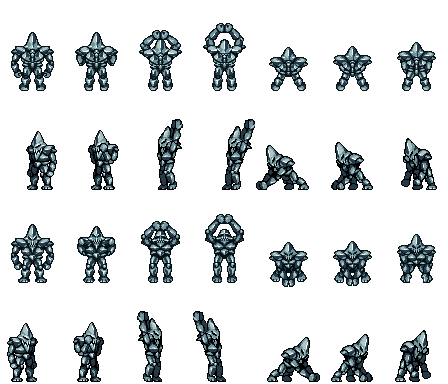
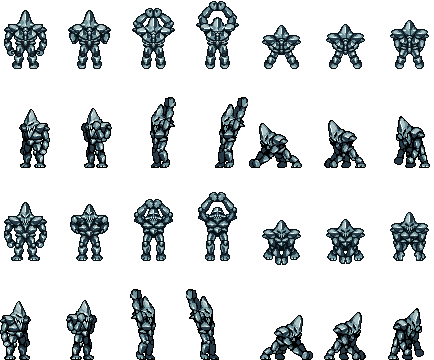
fixed boss animation

diff --git a/src/core/Texture.java b/src/core/Texture.java
@@ -36,7 +36,7 @@ public class Texture {
     public BufferedImage[] NPC = new BufferedImage[12];
     public BufferedImage[] house = new BufferedImage[3];
     public BufferedImage[] misc = new BufferedImage[6];
-    public BufferedImage[] boss = new BufferedImage[13];
+    public BufferedImage[] boss = new BufferedImage[15];
     public BufferedImage[] attack = new BufferedImage[20];
     public BufferedImage fountain = null;
     public BufferedImage bossText = null;
@@ -404,15 +404,22 @@ public class Texture {
 
         boss[0] = b1S.grabImage(1, 2, 56, 71);
         boss[1] = b2S.grabImage(1, 1, 64, 64);
-        boss[2] = b3S.grabImage(1, 2, 64, 96);
-        boss[3] = b4S.grabImage(1, 1, 64, 64);
-        boss[4] = b3S.grabImage(2, 2, 64, 64);
-        boss[5] = b3S.grabImage(3, 2, 64, 64);
-        boss[6] = b3S.grabImage(4, 2, 64, 64);
-        boss[7] = b4S.grabImage(1, 2, 64, 64);
-        boss[8] = b4S.grabImage(2, 2, 64, 64);
-        boss[9] = b3S.grabImage(5, 2, 64, 64);
-        boss[10] = b3S.grabImage(6, 2, 64, 64);
+        boss[2] = b3S.grabImage(1, 2, 62, 90);
+        boss[3] = b4S.ImageScale(b4S.grabImage(1, 3, 64, 64), 2.0);
+
+        //boss 3 attack animation
+        boss[4] = b3S.grabImage(2, 2, 62, 90);
+        boss[5] = b3S.grabImage(3, 2, 62, 90);
+        boss[6] = b3S.grabImage(4, 2, 62, 90);
+        boss[7] = b3S.grabImage(5, 2, 62, 90);
+        boss[8] = b3S.grabImage(6, 2, 62, 90);
+        boss[9] = b3S.grabImage(7, 2, 62, 90);
+
+        //boss 4 attack animation
+        boss[10] = b4S.ImageScale(b4S.grabImage(1, 2, 64, 64), 2.0);
+        boss[11] = b4S.ImageScale(b4S.grabImage(2, 2, 64, 64), 2.0);
+        boss[12] = b4S.ImageScale(b4S.grabImage(3, 2, 64, 64), 2.0);
+        boss[13] = b4S.ImageScale(b4S.grabImage(4, 2, 64, 64), 2.0);
 
         attack[0] = attS.grabImage(6, 2, 50, 50);
         attack[1] = attS.grabImage(6, 8, 50, 50);

diff --git a/src/main/Game.java b/src/main/Game.java
@@ -396,10 +396,10 @@ public class Game extends Canvas implements Runnable {
                     handlerDungeon.addObject(new Boss(i * Block.WIDTH, (j - 26 * (no - 1)) * Block.HEIGHT - 42, 5000, 1, ObjectId.Boss));
                 }
                 if (red == 0 && green == 255 && blue == 0 && no == 3) {
-                    handlerDungeon.addObject(new Boss(i * Block.WIDTH, (j - 26 * (no - 1)) * Block.HEIGHT - 88, 6000, 2, ObjectId.Boss));
+                    handlerDungeon.addObject(new Boss(i * Block.WIDTH, (j - 26 * (no - 1)) * Block.HEIGHT - 65, 6000, 2, ObjectId.Boss));
                 }
                 if (red == 0 && green == 255 && blue == 0 && no == 4) {
-                    handlerDungeon.addObject(new Boss(i * Block.WIDTH, (j - 26 * (no - 1)) * Block.HEIGHT - 42, 6500, 3, ObjectId.Boss));
+                    handlerDungeon.addObject(new Boss(i * Block.WIDTH, (j - 26 * (no - 1)) * Block.HEIGHT - 36, 6500, 3, ObjectId.Boss));
                 }
 
                 if (red == 123 && green == 123 && blue == 123) {

diff --git a/src/objects/Boss.java b/src/objects/Boss.java
@@ -57,13 +57,15 @@ public class Boss extends GameObject {
                 texture.boss[4],
                 texture.boss[5],
                 texture.boss[6],
-                texture.boss[9],
-                texture.boss[10]);
-        boss4 = new Animation(5,
-                texture.boss[3],
                 texture.boss[7],
                 texture.boss[8],
-                texture.boss[3]);
+                texture.boss[9]);
+        boss4 = new Animation(5,
+                texture.boss[3],
+                texture.boss[10],
+                texture.boss[11],
+                texture.boss[12],
+                texture.boss[13]);
     }
 
     public int getHealth() {
